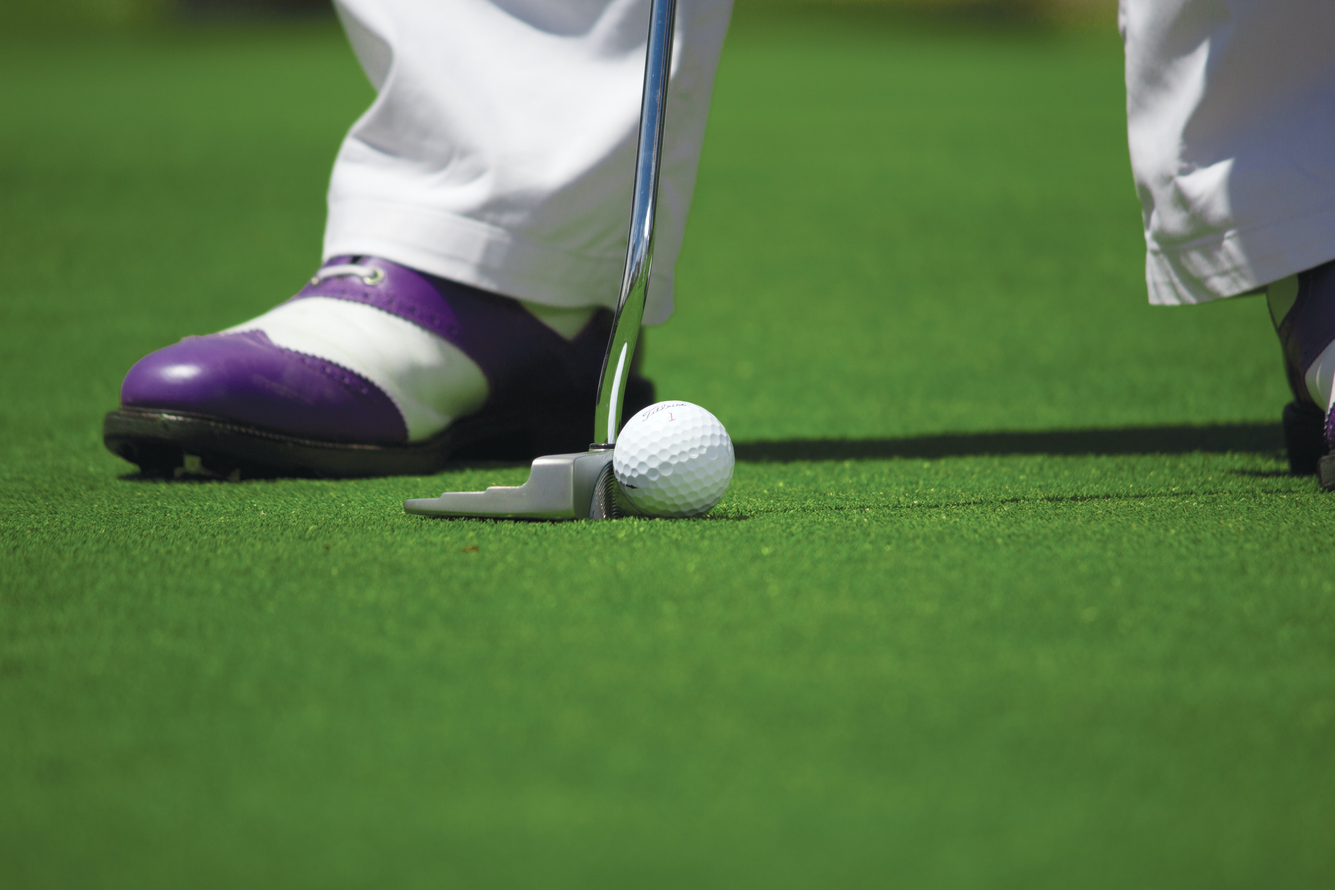
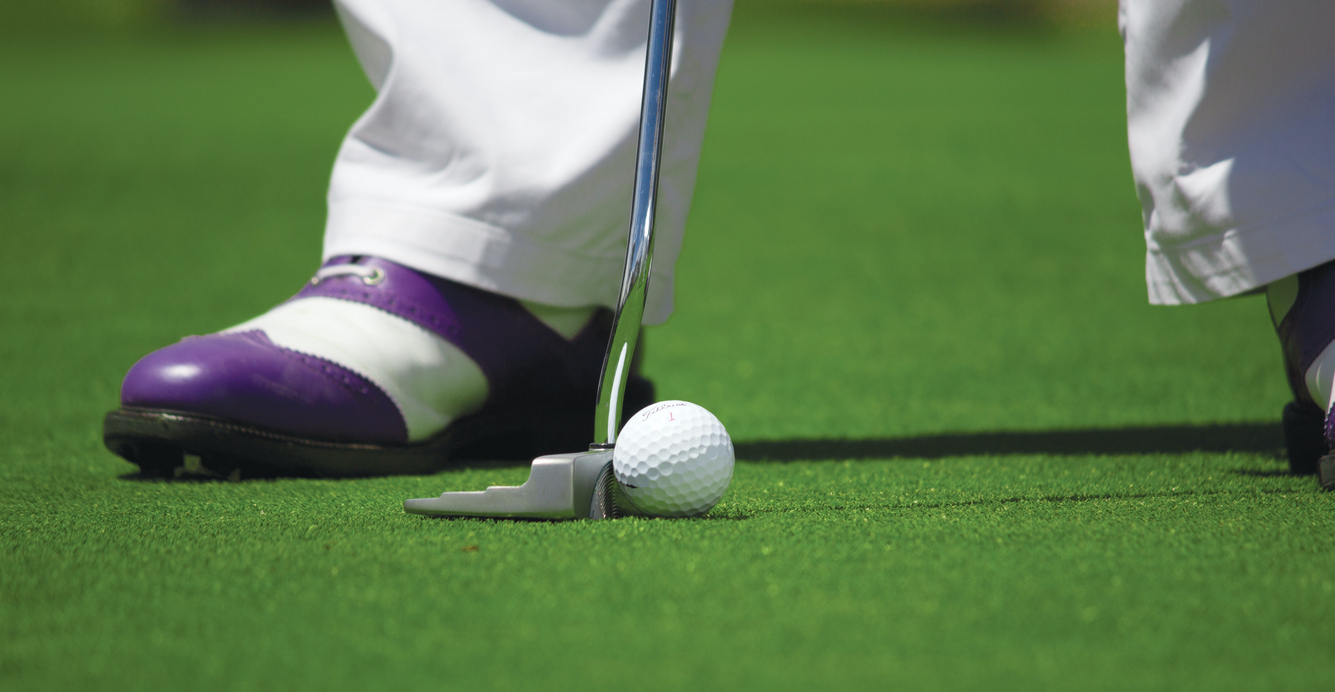
second jumbotron height changed

diff --git a/src/components/Jumbotrongolf/style.css b/src/components/Jumbotrongolf/style.css
@@ -1,9 +1,9 @@
 .golfbackground {
   background-image: url(../../images/grass-green-golf-golf-ball-54122.jpg);
   background-size: cover;
-  height: 100vh;
+  height: 80vh;
   margin-top: -100px;
-  background-position: top;
+  background-position: center;
 }
 
 

diff --git a/src/components/Jumbotronmenusecond/style.css b/src/components/Jumbotronmenusecond/style.css
@@ -1,7 +1,7 @@
 .jumbomenusecond {
   background-image: url(../../images/eagles/10.jpg);
   background-size: cover;
-  height: 100vh;
+  height: 80vh;
   margin-top: -100px;
   background-position: center;
 }
